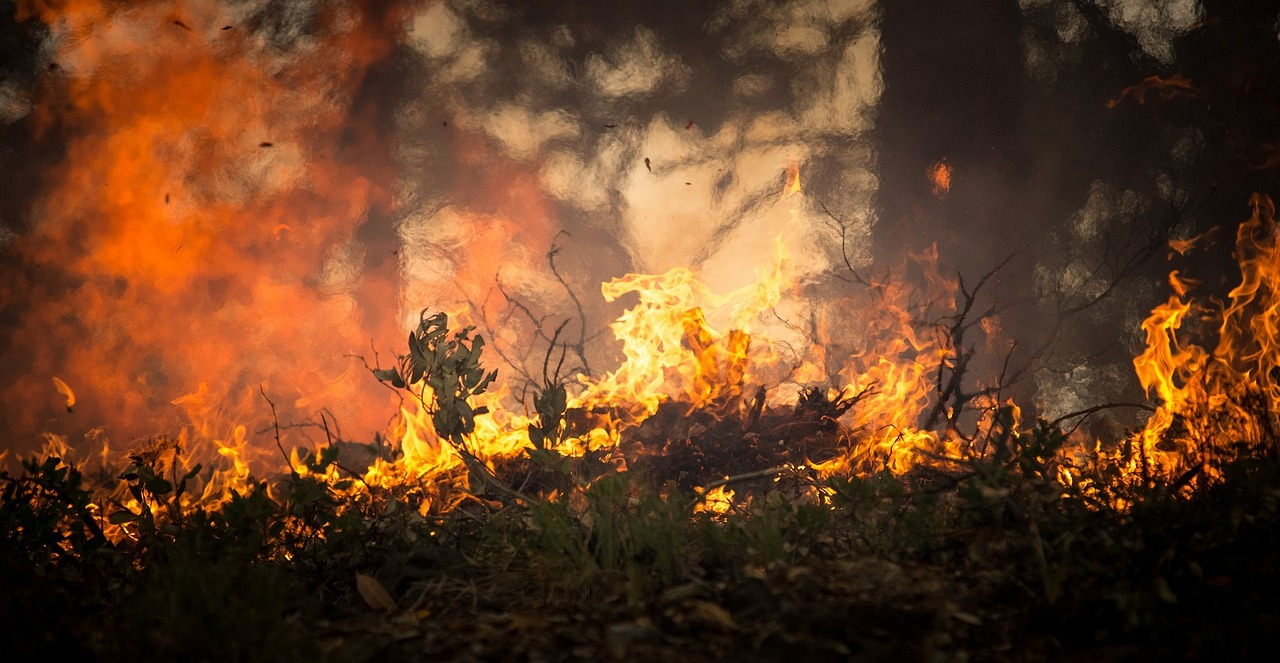
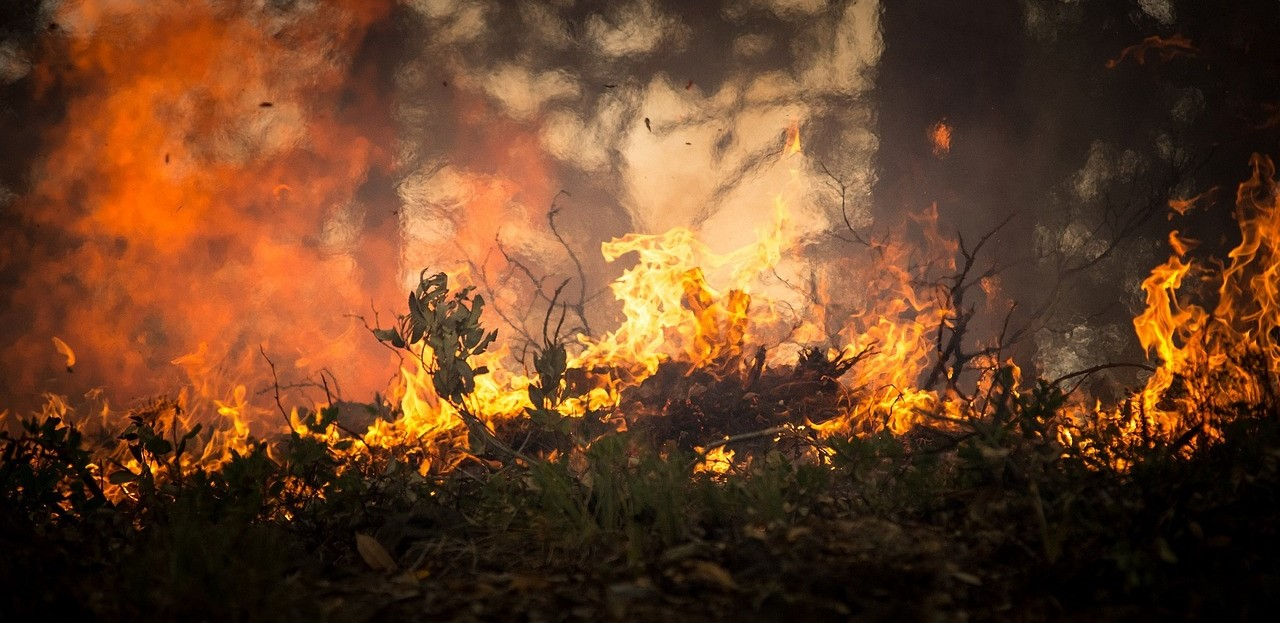
update homepage caroussel

diff --git a/service_WEB/templates/home.html b/service_WEB/templates/home.html
@@ -14,10 +14,11 @@
 
         <div class="carousel-inner">
             <div class="active carousel-item">
-                <img class="first-slide" src="/static/img/home/wildfire.jpg" alt="Wild Fire">
+                <img class="first-slide" class="d-block w-100" src="/static/img/home/wildfire_1.jpg" alt="Wild Fire">
                 <svg class="bd-placeholder-img" width="100%" height="100%" xmlns="http://www.w3.org/2000/svg" preserveAspectRatio="xMidYMid slice" focusable="false" role="img"><rect width="100%" height="100%" fill="#7e9eff"/></svg>
                 <div class="container">
                     <div class="carousel-caption text-left">
+                    
                         <h1>Time matters.</h1>
                         <p>AsTeR aims at supporting emergency services from the call to the survivor.</p>
                         <p><a class="btn btn-lg btn-primary" href="https://www.youtube.com/" role="button"><i class="fa fa-youtube-play"></i> Watch demo</a></p>
@@ -25,8 +26,8 @@
                 </div>
             </div>
             <div class="carousel-item">
-                <svg class="bd-placeholder-img" width="100%" height="100%" xmlns="http://www.w3.org/2000/svg" preserveAspectRatio="xMidYMid slice" focusable="false" role="img"><rect width="100%" height="100%" fill="#ff0d2f"/></svg>
-{#                <img class="second-slide" src="/static/img/home/modularity.jpg" alt="modularity">#}
+                <svg class="bd-placeholder-img" width="100%" height="100%" xmlns="http://www.w3.org/2000/svg" preserveAspectRatio="xMidYMid slice" focusable="false" role="img"><rect width="100%" height="100%" fill="#7e9eff"/></svg>
+                <img class="second-slide" class="d-block w-100" src="/static/img/home/modularity_2.jpg" alt="modularity">
                 <div class="container">
                     <div class="carousel-caption">
                         <h1>Focus on modularity.</h1>
@@ -36,8 +37,8 @@
                 </div>
             </div>
             <div class="carousel-item">
-                <svg class="bd-placeholder-img" width="100%" height="100%" xmlns="http://www.w3.org/2000/svg" preserveAspectRatio="xMidYMid slice" focusable="false" role="img"><rect width="100%" height="100%" fill="#33bb0a"/></svg>
-{#                <img class="third-slide" src="/static/img/home/bulb.jpg" alt="smart">#}
+                <svg class="bd-placeholder-img" width="100%" height="100%" xmlns="http://www.w3.org/2000/svg" preserveAspectRatio="xMidYMid slice" focusable="false" role="img"><rect width="100%" height="100%" fill="#7e9eff"/></svg>
+                <img class="third-slide" class="d-block w-100" src="/static/img/home/bulb_1.jpg" alt="smart">
                 <div class="container">
                     <div class="carousel-caption text-right">
                         <h1>AsTeR is not only intuitive. It is smart. </h1>

diff --git a/service_WEB/static/home.css b/service_WEB/static/home.css
@@ -34,8 +34,9 @@ body {
   top: 0;
   left: 0px;
   min-width: 100%;
-  height: 32rem;
+  height: auto;
   width: 100%;
+  display: inline-block;
 }
 
 .btn .btn-youtube{
